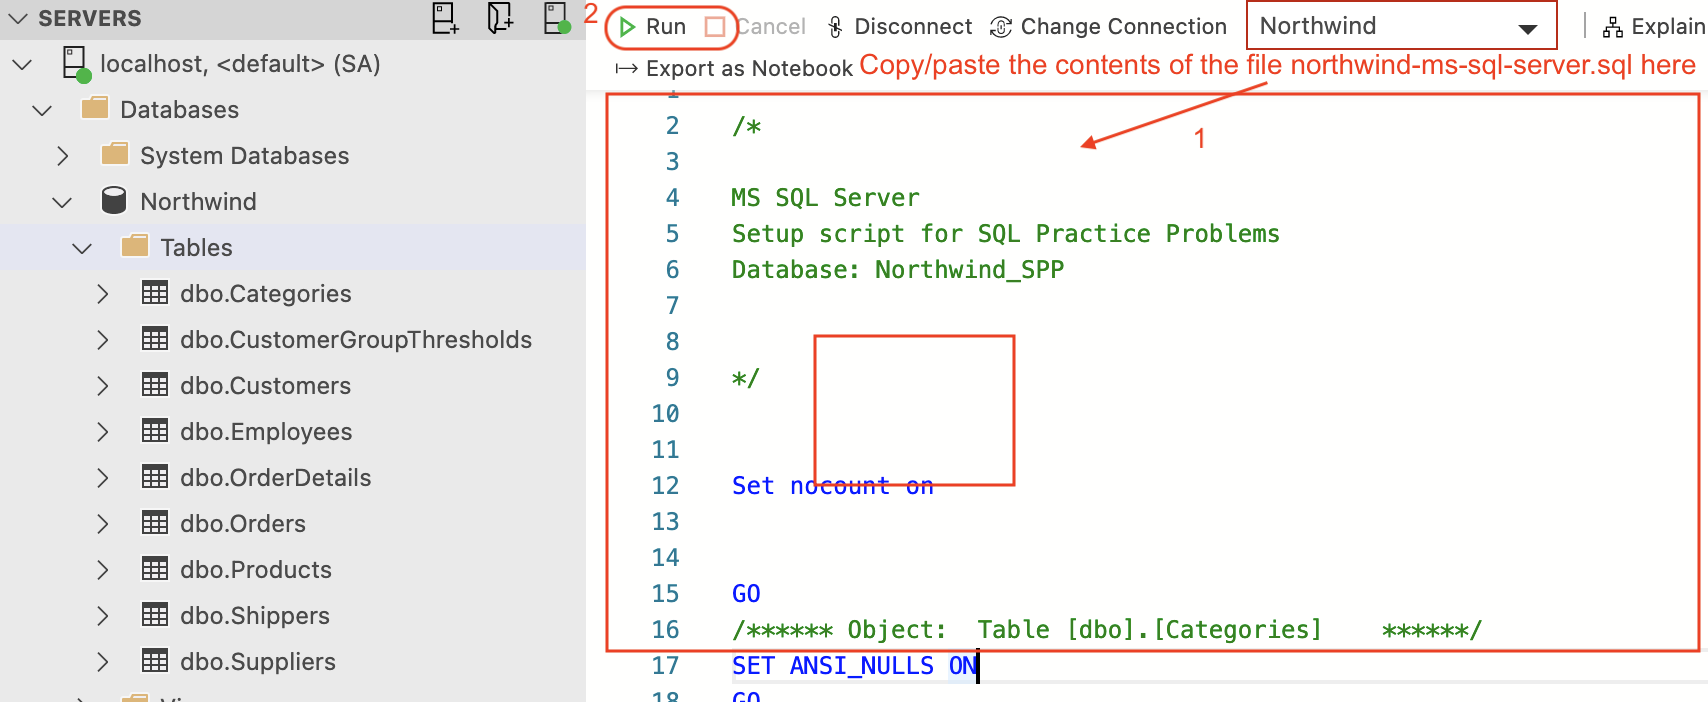
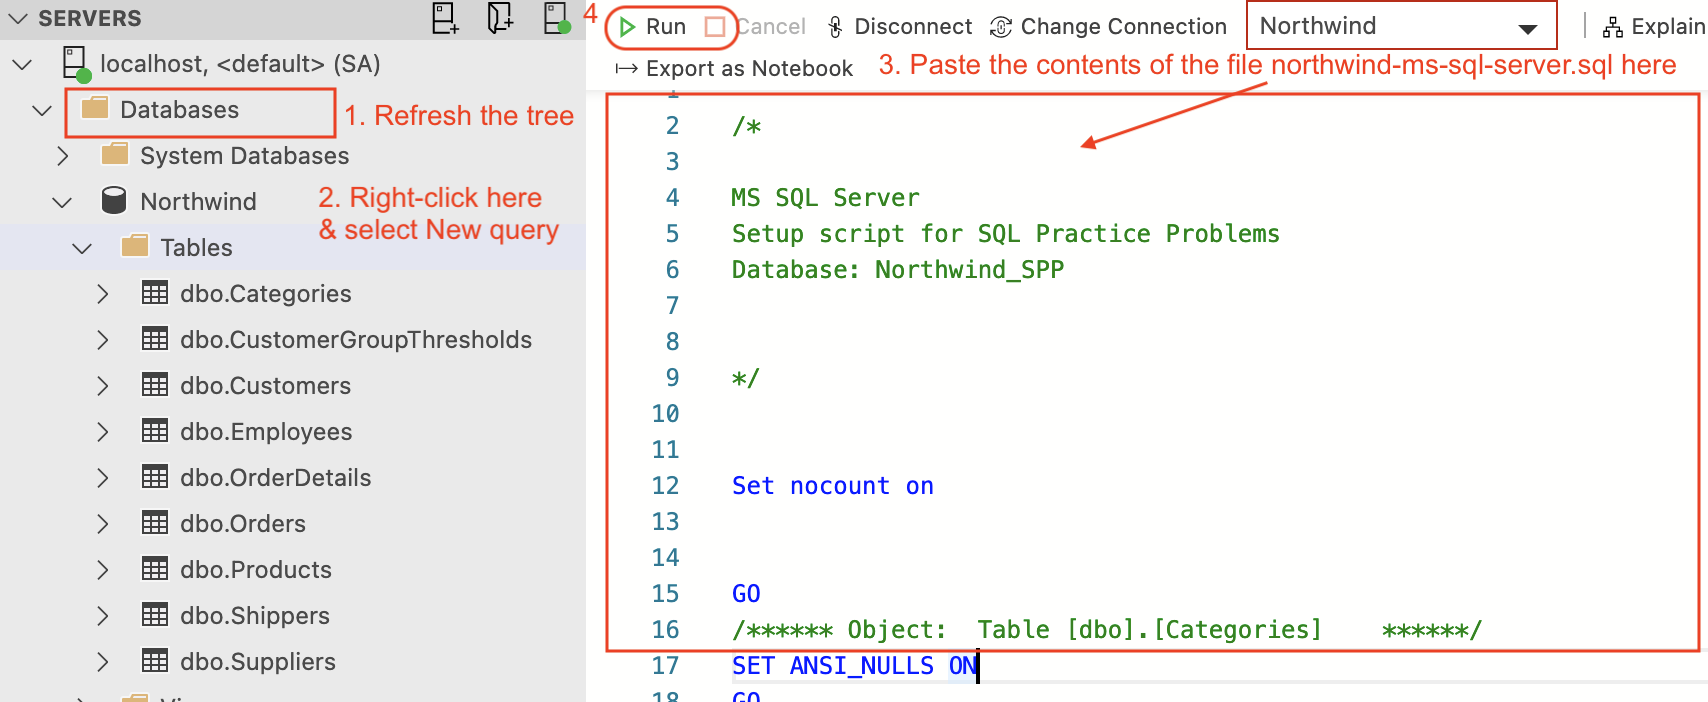
Add setup instructions for MS SQL Server on Mac

diff --git a/README.md b/README.md
@@ -42,17 +42,22 @@ mysql> source [/path/to/]northwind-mysql.sql
 $ docker run -e 'ACCEPT_EULA=Y' -e 'SA_PASSWORD=@dmin!234' -p 1433:1433 --name mssql -h mssql -d mcr.microsoft.com/mssql/server
 ```
 
-3. Note the credentials. User ID is `SA`. Password is `@dmin!234`
+3. Note the credentials. User ID is `SA`. Password is `@dmin!234`.
 
 4. Install [Azure Data Studio for Mac](https://docs.microsoft.com/en-us/sql/azure-data-studio/download-azure-data-studio)
 
-5. Login to Azure Data Studio and follow the steps in the following screenshots:
+5. Follow the steps below:
+   
+    - Login to Azure Data Studio:
+      ![Login](images/login.png)
+      
     - Go to Databases -> master -> right-click -> New query and run the following command:
       ```
       CREATE DATABASE Northwind
       ```
       ![Create-New-DB](images/new-db.png)
       
-    - Refresh the tree on the left, find Northwind under Databases -> right-click -> New query and run the contents of the file northwind-ms-sql-server.sql:
+    - Refresh the tree on the left, find Northwind -> right-click -> New query and run the contents of the file northwind-ms-sql-server.sql:
       ![Run-Script](images/run-script.png)
     
+   - Refresh the tree again to reveal the tables created.
